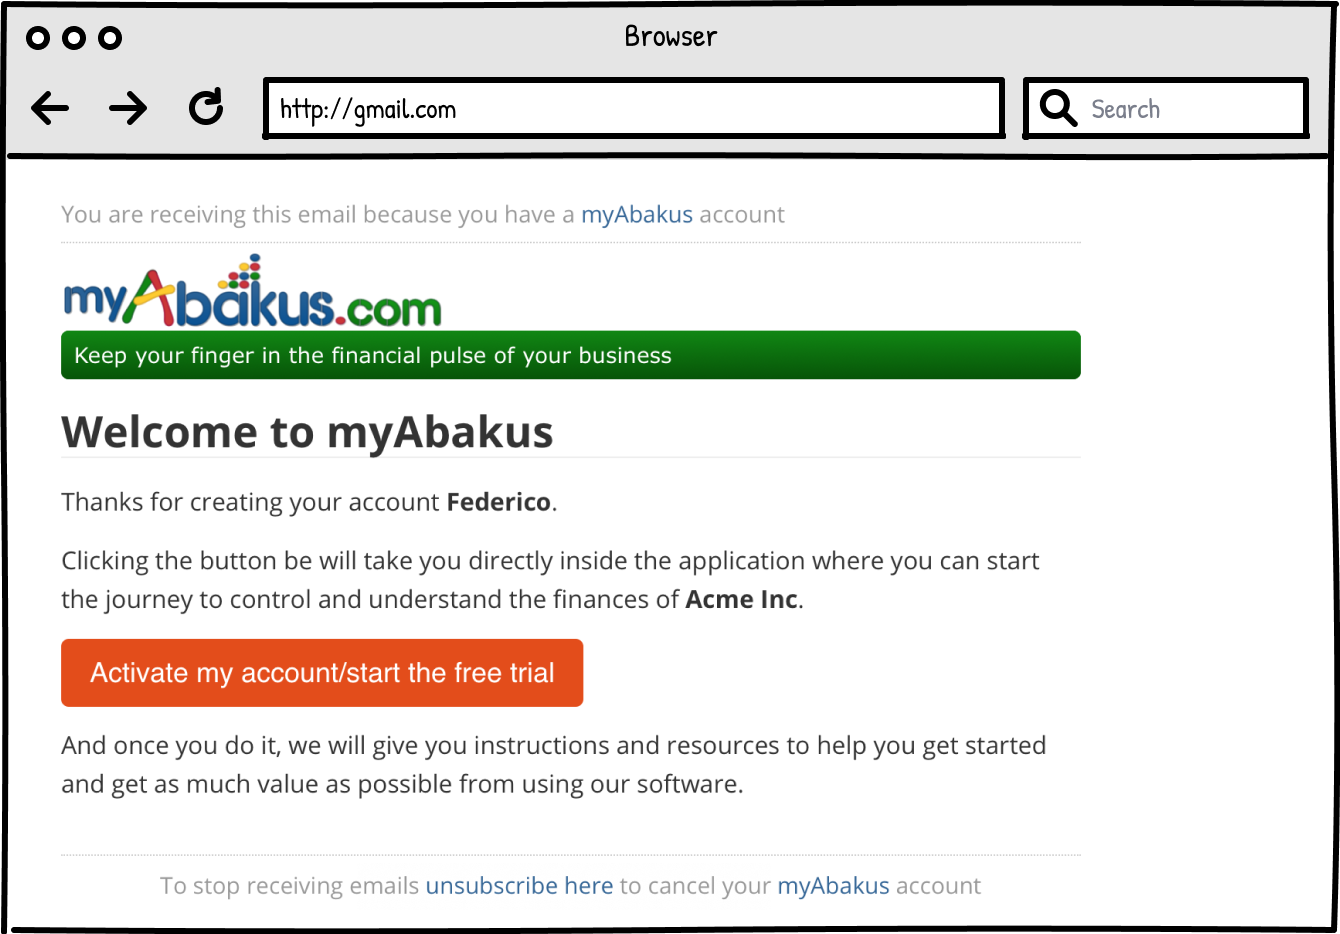
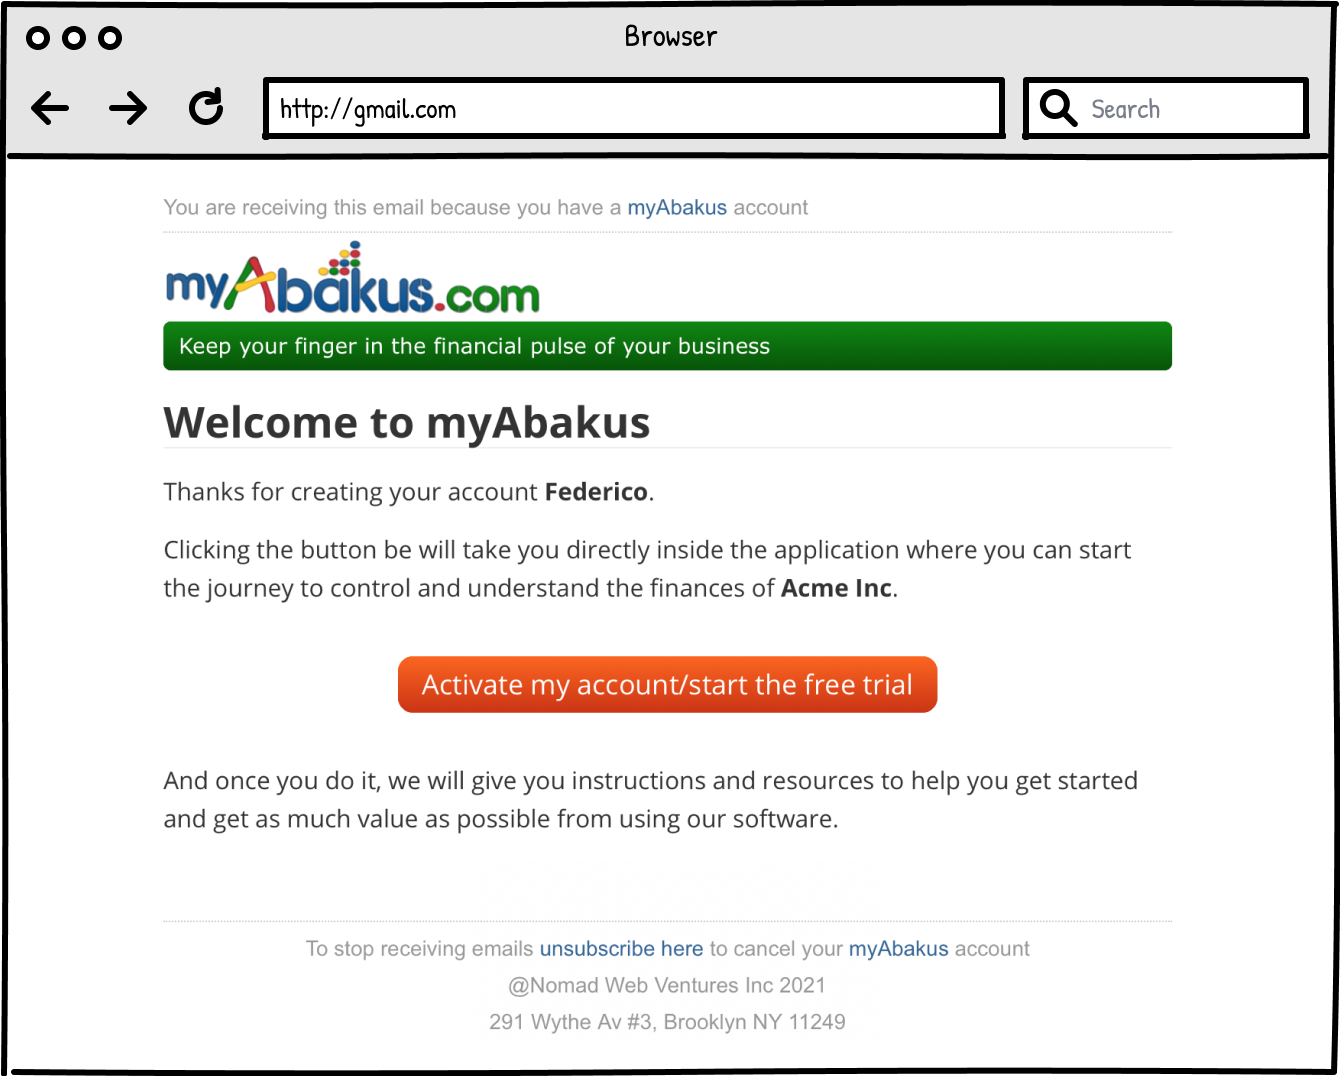
updated signup confirmation page

diff --git a/activar.html b/activar.html
@@ -24,9 +24,9 @@
       </div>
       <section style="padding-top: 1rem;">
         <p>Usted está a un sólo paso de activarla y comenzar su periodo de prueba.</p>
-        <p>Para hacerlo simplemente tiene que abrir el email que acabamos de enviarle al correo que uso para registrar la cuenta y darle clic al botón que dice &quot;Activar mi cuenta/comenzar periodo de prueba&quot;.</p>
-        <img src="images/welcome-email-es.png" width="100%"/>
-        <p>Si no ha recibido el email, por favor revise su carpeta de spam en caso de que haya terminado ahí.</p>
+        <p>En su bandeja de entrada del correo electrónico que usó para crear la cuenta debe tener un email como el que se  ve en esta imagen.</p>
+        <img src="images/welcome-email-es.png" style="width: 80%; display: flex; height: auto; margin-top: 0.625rem; margin-bottom: 0.625rem;"/>
+        <p>Simplemente debe darle clic al botón que dice &quot;Activar mi cuenta/comenzar periodo de prueba&quot; para ir directamente a la aplicación. </p><p>Si no ha recibido el email, por favor revise su carpeta de spam en caso de que haya terminado ahí.</p>
         <p>Y si definitivamente no lo encuentra o tiene cualquier duda o pregunta, por favor déjenoslo saber usando el widget de chat y con el mayor gusto le ayudaremos.</p>
       </section>
     </div>

diff --git a/activate.html b/activate.html
@@ -25,8 +25,9 @@
       </div>
       <section style="padding-top: 1rem;">
         <p>You are just one step away from activating it and starting your free trial.</p>
-        <p>Simply open the email that we just sent to the email address you used to sign up and click the button that says "Activate my account/start free trial".</p>
-        <img src="images/welcome-email-en.png" width="100%"/>
+        <p>In the inbox of the email address you used to create your account you should have an email like the one seen in this image.</p>
+        <img src="images/welcome-email-en.png" style="width: 80%; display: flex; height: auto; margin-top: 0.625rem; margin-bottom: 0.625rem;"/>
+        <p>Simply click the button that says "Activate my account/start free trial" to go directly to the application.</p>
         <p>If you haven't received the email, please check your spam folder in case it ended up there.</p>
         <p>And if you definitively can't find it or have any other question, please let us know using the chat widget and we'll be happy to help.</p>
       </section>
